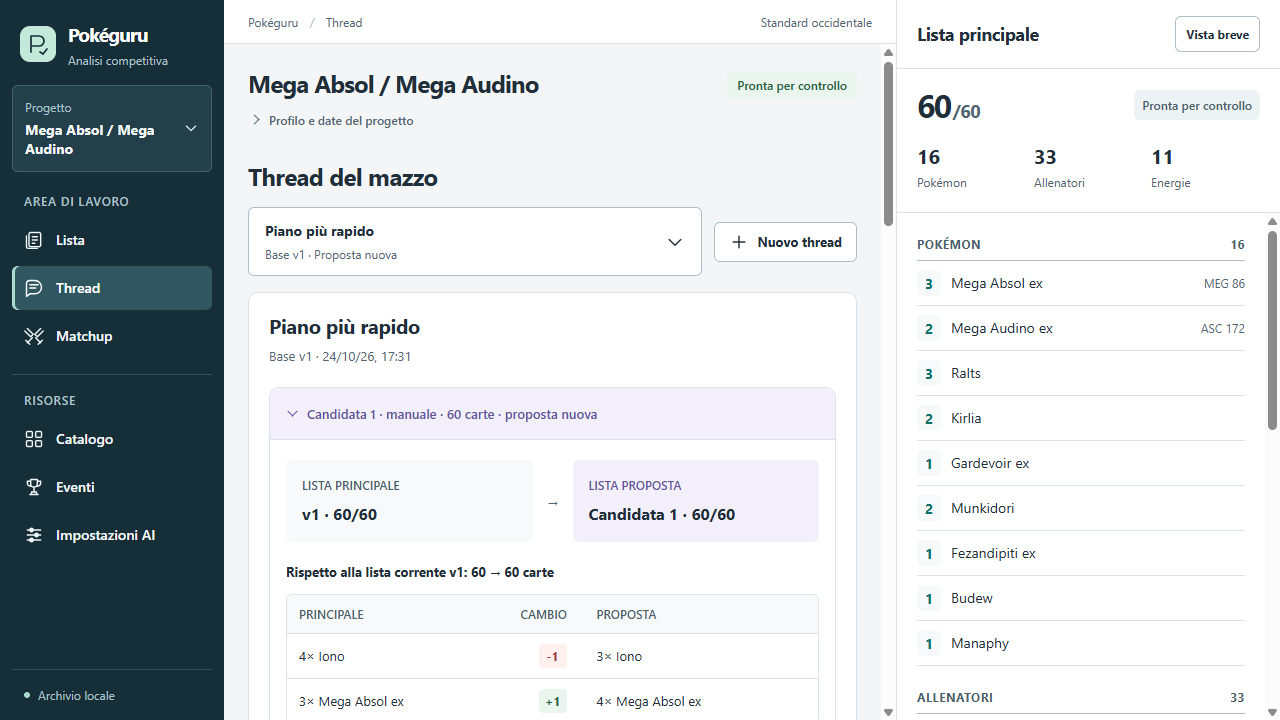
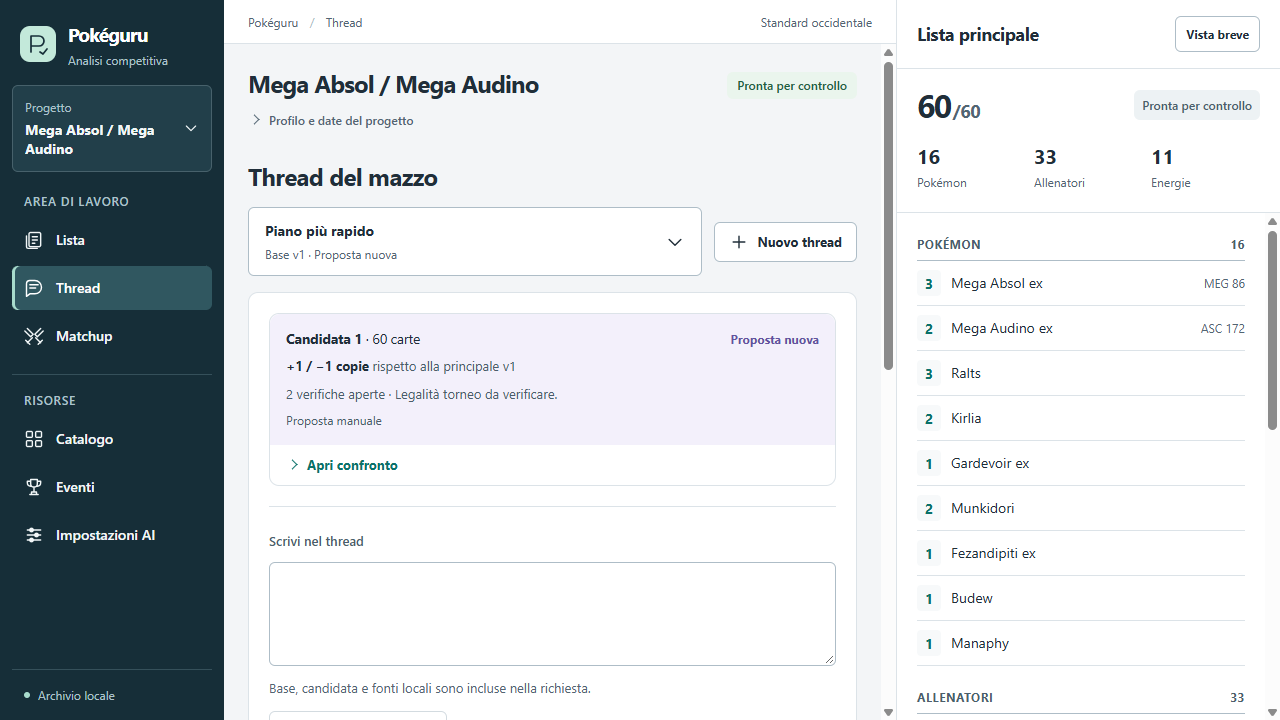
Prioritize thread conversation with compact candidate (APP-068)

diff --git a/src/renderer/src/ThreadsSection.tsx b/src/renderer/src/ThreadsSection.tsx
@@ -81,6 +81,7 @@ function CandidateDetail({ candidate, thread, versions, catalog, constraints, au
   candidate: DeckCandidate; thread: DeckThread; versions: DeckVersion[]; catalog: CatalogView | null
   constraints: DeckConstraint[]; audit: StandardRuleAudit | null; working: boolean; featured?: boolean; onAdopt(candidate: DeckCandidate): void
 }) {
+  const comparison = useRef<HTMLDetailsElement>(null)
   const base = versions.find((version) => version.id === thread.baseVersionId)
   const current = versions[0]
   const adopted = versions.find((version) => version.adoption?.candidateId === candidate.id)
@@ -88,8 +89,21 @@ function CandidateDetail({ candidate, thread, versions, catalog, constraints, au
     new Date().toLocaleDateString('sv-SE'), audit) : null
   const comparisonDeck = review ? parseDeck(review.normalizedRawText) : candidate.parsed
   const reviewItems = review ? reviewSummary(review.toReview) : []
-  return <details className={`thread-candidate ${featured ? 'featured' : ''}`} open={featured || undefined}>
-    <summary>Candidata {candidate.sequence} · {candidate.origin === 'ai' ? 'Codex' : 'manuale'} · {candidate.parsed.interpretedTotal} carte · {adopted ? `adottata in v${adopted.sequence}` : thread.stale ? 'base superata' : 'proposta nuova'}</summary>
+  const diff = current ? compareDecks(current.parsed, comparisonDeck) : null
+  const added = diff?.byName.reduce((sum, item) => sum + Math.max(0, item.delta), 0) ?? 0
+  const removed = diff?.byName.reduce((sum, item) => sum + Math.max(0, -item.delta), 0) ?? 0
+  const blockers = adopted ? [] : [
+    ...(thread.stale ? ['Base superata: apri un nuovo thread dalla lista corrente.'] : []),
+    ...(!current ? ['Manca una lista principale.'] : []),
+    ...(!review ? ['Controlli non disponibili.'] : review.blockers)
+  ]
+  const status = adopted ? `Adottata in v${adopted.sequence}` : thread.stale ? 'Base superata' : 'Proposta nuova'
+  function closeComparison() {
+    if (!comparison.current) return
+    comparison.current.open = false
+    focusInWorkspace(comparison.current.querySelector('summary'))
+  }
+  const content = <>
     <div className="candidate-identities"><div><span>LISTA PRINCIPALE</span><strong>{current ? `v${current.sequence} · ${current.parsed.interpretedTotal}/60` : 'Nessuna lista principale'}</strong></div>
       <b aria-hidden="true">→</b><div><span>LISTA PROPOSTA</span><strong>Candidata {candidate.sequence} · {candidate.parsed.interpretedTotal}/60</strong></div></div>
     {candidate.note && <p>{candidate.note}</p>}
@@ -98,7 +112,7 @@ function CandidateDetail({ candidate, thread, versions, catalog, constraints, au
         ? <button key={source.id} type="button" className="text-button" onClick={() => void window.projectsApi.openDeckSource(source.url!)}>{source.label} ↗</button>
         : <span key={source.id}>{source.label}</span>)}
       {candidate.sources.length > 2 && <span>+{candidate.sources.length - 2} nei dettagli</span>}</div>}
-    {current && <DiffView title={`Rispetto alla lista corrente v${current.sequence}`} diff={compareDecks(current.parsed, comparisonDeck)} />}
+    {current && diff && <DiffView title={`Rispetto alla lista corrente v${current.sequence}`} diff={diff} />}
     {base && base.id !== current?.id && <DiffView title={`Rispetto alla base v${base.sequence}`} diff={compareDecks(base.parsed, comparisonDeck)} beforeLabel="BASE DEL THREAD" />}
     {review && review.conversions.length > 0 && <p className="candidate-conversions">Codici adattati per l'adozione: {review.conversions.map((item) =>
       `riga ${item.lineNumber} ${item.from} → ${item.to}`).join('; ')}.</p>}
@@ -126,7 +140,44 @@ function CandidateDetail({ candidate, thread, versions, catalog, constraints, au
         <pre>{review.normalizedRawText}</pre></div>}
       <pre>{candidate.rawText}</pre>
     </details>
+  </>
+  if (!featured) return <details className="thread-candidate">
+    <summary>Candidata {candidate.sequence} · {candidate.origin === 'ai' ? 'Codex' : 'manuale'} · {candidate.parsed.interpretedTotal} carte · {status}</summary>
+    <div className="candidate-comparison-body">{content}</div>
   </details>
+  return <section className="thread-candidate featured" aria-labelledby={`candidate-title-${candidate.id}`}>
+    <div className="candidate-brief">
+      <div className="candidate-brief-heading">
+        <h3 id={`candidate-title-${candidate.id}`}>Candidata {candidate.sequence} <span>· {candidate.parsed.interpretedTotal} carte</span></h3>
+        <span className="candidate-state">{status}</span>
+      </div>
+      <p className="candidate-change-summary">{diff ? <>
+        {added || removed ? <strong>+{added} / −{removed} copie</strong>
+          : <strong>{diff.byPrint.length ? 'Cambiano solo le stampe' : 'Nessuna variazione'}</strong>}
+        <span> rispetto alla principale v{current!.sequence}</span>
+      </> : 'Nessuna lista principale da confrontare.'}</p>
+      {blockers.length > 0 && <p className="candidate-blocked"><strong>Adozione bloccata.</strong> {blockers[0]}
+        {blockers.length > 1 && <span> Altri {blockers.length - 1} blocchi nel confronto.</span>}</p>}
+      <p className="candidate-caution">{reviewItems.length > 0 && <span>{reviewItems.length} verifiche aperte · </span>}Legalità torneo da verificare.</p>
+      <span className="candidate-origin">{candidate.origin === 'ai'
+        ? `Codex · ${candidate.sources.length ? `${candidate.sources.length} fonti nel confronto` : 'nessuna fonte collegata'}` : 'Proposta manuale'}</span>
+    </div>
+    <details ref={comparison} className="candidate-comparison" onToggle={(event) => {
+      if (event.target !== event.currentTarget || !event.currentTarget.open) return
+      const main = event.currentTarget.closest<HTMLElement>('.main-content')
+      const heading = event.currentTarget.querySelector('summary')?.getBoundingClientRect()
+      if (!main || !heading) return
+      const bounds = main.getBoundingClientRect()
+      if (heading.bottom > bounds.bottom - 200) main.scrollTop += heading.top - bounds.top - 16
+    }} onKeyDown={(event) => {
+      if (event.key === 'Escape') { event.preventDefault(); event.stopPropagation(); closeComparison() }
+    }}>
+      <summary><span className="comparison-closed-label">Apri confronto</span><span className="comparison-open-label">Chiudi confronto</span></summary>
+      <div className="candidate-comparison-body">{content}
+        <button type="button" className="secondary-button close-comparison" onClick={closeComparison}>Chiudi confronto</button>
+      </div>
+    </details>
+  </section>
 }
 
 function displayDate(value: string): string {
@@ -183,12 +234,12 @@ export function ThreadsSection({ projectId, mainImportedAt, onAdopt }: Props) {
     if (createError) focusInWorkspace(newThreadError.current)
   }, [createError])
   useEffect(() => {
-    if (!confirmCandidate && adoptionTrigger.current) {
-      if (adoptionTrigger.current.isConnected) adoptionTrigger.current.focus()
-      else document.querySelector<HTMLElement>('.thread-heading h3')?.focus()
+    if (!confirmCandidate && !loading && !working && adoptionTrigger.current) {
+      if (adoptionTrigger.current.isConnected) focusInWorkspace(adoptionTrigger.current)
+      else focusInWorkspace(document.getElementById('thread-switcher-trigger'))
       adoptionTrigger.current = null
     }
-  }, [confirmCandidate])
+  }, [confirmCandidate, loading, working])
 
   function confirmAdoption(candidate: DeckCandidate) {
     adoptionTrigger.current = document.activeElement as HTMLElement
@@ -410,12 +461,24 @@ export function ThreadsSection({ projectId, mainImportedAt, onAdopt }: Props) {
         </form>}
         <div className="thread-detail">
           {selected ? <>
-            <div className="thread-heading"><div><h3 tabIndex={-1}>{selected.title}</h3><p className="content-note">{selected.baseVersionNumber === null ? 'Senza lista iniziale' : `Base v${selected.baseVersionNumber}`} · {displayDate(selected.createdAt)}</p></div>
-              {selected.stale && <span className="matchup-freshness stale">Base da confrontare</span>}</div>
+            {!featuredCandidate && selected.stale && <p className="diagnostics">Base superata: apri un nuovo thread dalla lista corrente.</p>}
             {featuredCandidate ? <CandidateDetail key={featuredCandidate.id} candidate={featuredCandidate} thread={selected} versions={versions}
               catalog={catalog} constraints={constraints} audit={ruleAudit} working={working} featured onAdopt={confirmAdoption} />
-              : <div className="thread-no-candidate"><strong>Nessuna proposta salvata</strong><p>Chiedi a Codex una lista completa o incollane una.</p></div>}
-            <details className="thread-ai-options"><summary>Modello e ragionamento</summary><div className="thread-form">
+              : <p className="thread-no-candidate">Nessuna proposta salvata.</p>}
+            <div className="thread-timeline"><h4>Conversazione</h4>
+              {timeline.filter((entry) => entry.kind !== 'candidate' || entry.item.id !== featuredCandidate?.id).map((entry) => entry.kind === 'message' ? <div className="thread-message" data-author={entry.item.author} key={entry.item.id}><small>{entry.item.author === 'user' ? 'Tu' : 'Codex'} · {displayDate(entry.item.createdAt)}</small><p>{entry.item.text}</p><ThreadMessageEvidence message={entry.item} />{entry.item.aiConfig && <details><summary>Dettagli AI</summary><p>{entry.item.aiConfig.model ?? 'Automatico'} / {entry.item.aiConfig.reasoningEffort ?? 'predefinito'} · {entry.item.aiConfig.source === 'override' ? 'scelta del thread' : 'preferenze globali'}</p></details>}</div> : <CandidateDetail key={entry.item.id} candidate={entry.item} thread={selected} versions={versions}
+                catalog={catalog} constraints={constraints} audit={ruleAudit} working={working} onAdopt={confirmAdoption} />)}
+            </div>
+            <form className="thread-form" onSubmit={(event) => void ask(event)}>
+              <label htmlFor="thread-message">Scrivi nel thread</label>
+              <textarea id="thread-message" value={message} maxLength={5000} onChange={(event) => { setMessage(event.target.value); setPreview(null) }} />
+              <p className="content-note">Base, candidata e fonti locali sono incluse nella richiesta.</p>
+              <button type="button" className="secondary-button" disabled={!message.trim() || previewLoading || working} onClick={() => void previewEvidence('ask')}>{previewLoading ? 'Preparo i dati…' : 'Vedi dati inviati a Codex'}</button>
+              {preview?.kind === 'ask' && preview.prompt === message && <EvidencePreview packet={preview.packet} />}
+              <div className="thread-form-actions"><button className="primary-button" disabled={working || !message.trim()}>{asking ? 'Codex sta rispondendo…' : 'Chiedi a Codex'}</button>
+              <button type="button" className="secondary-button" disabled={working || !message.trim()} onClick={() => void addMessage()}>Salva osservazione</button></div>
+            </form>
+            <details className="thread-ai-options"><summary>Dettagli del thread e AI</summary><div className="thread-form"><p className="content-note">Creato il {displayDate(selected.createdAt)}</p>
               <label htmlFor="thread-ai-model">Modello Codex per questo thread</label>
               <select id="thread-ai-model" value={selectedOverride?.model ?? ''} disabled={working}
                 onChange={(event) => setOverrides((current) => ({ ...current, [selected.id]: {
@@ -432,19 +495,6 @@ export function ThreadsSection({ projectId, mainImportedAt, onAdopt }: Props) {
                 {selectedModel?.reasoningEfforts.map((effort) => <option key={effort.id} value={effort.id}>{effort.id}</option>)}
               </select>
             </div></details>
-            <div className="thread-timeline"><h4>Discussione e proposte precedenti</h4>
-              {timeline.filter((entry) => entry.kind !== 'candidate' || entry.item.id !== featuredCandidate?.id).map((entry) => entry.kind === 'message' ? <div className="thread-message" data-author={entry.item.author} key={entry.item.id}><small>{entry.item.author === 'user' ? 'Tu' : 'Codex'} · {displayDate(entry.item.createdAt)}</small><p>{entry.item.text}</p><ThreadMessageEvidence message={entry.item} />{entry.item.aiConfig && <details><summary>Dettagli AI</summary><p>{entry.item.aiConfig.model ?? 'Automatico'} / {entry.item.aiConfig.reasoningEffort ?? 'predefinito'} · {entry.item.aiConfig.source === 'override' ? 'scelta del thread' : 'preferenze globali'}</p></details>}</div> : <CandidateDetail key={entry.item.id} candidate={entry.item} thread={selected} versions={versions}
-                catalog={catalog} constraints={constraints} audit={ruleAudit} working={working} onAdopt={confirmAdoption} />)}
-            </div>
-            <form className="thread-form" onSubmit={(event) => void ask(event)}>
-              <label htmlFor="thread-message">Scrivi nel thread</label>
-              <textarea id="thread-message" value={message} maxLength={5000} onChange={(event) => { setMessage(event.target.value); setPreview(null) }} />
-              <p className="content-note">Base, candidata e fonti locali sono incluse nella richiesta.</p>
-              <button type="button" className="secondary-button" disabled={!message.trim() || previewLoading || working} onClick={() => void previewEvidence('ask')}>{previewLoading ? 'Preparo i dati…' : 'Vedi dati inviati a Codex'}</button>
-              {preview?.kind === 'ask' && preview.prompt === message && <EvidencePreview packet={preview.packet} />}
-              <div className="thread-form-actions"><button className="primary-button" disabled={working || !message.trim()}>{asking ? 'Codex sta rispondendo…' : 'Chiedi a Codex'}</button>
-              <button type="button" className="secondary-button" disabled={working || !message.trim()} onClick={() => void addMessage()}>Salva osservazione</button></div>
-            </form>
             <form className="thread-form candidate-form" onSubmit={(event) => void propose(event)}>
               <h4>Proposta completa con Codex</h4>
               <p className="content-note">Descrivi cosa cambiare. Riceverai una lista completa da confrontare.</p>

diff --git a/src/renderer/src/styles.css b/src/renderer/src/styles.css
@@ -95,7 +95,8 @@ details[open] > summary { margin-bottom: 8px; }
 .detail-meta strong { font-size: var(--text-sm); }
 .deck-heading-actions, .deck-export-action { display: flex; align-items: center; flex-wrap: wrap; gap: 8px; }
 .deck-heading-actions > strong { padding-right: 8px; color: var(--ink-muted); font-size: var(--text-sm); font-variant-numeric: tabular-nums; }
-.matchup-empty, .thread-no-candidate { padding: 32px; margin: 20px 0; border: 1px dashed var(--line-strong); border-radius: var(--radius-md); text-align: center; background: var(--surface); color: var(--ink-secondary); }
+.matchup-empty { padding: 32px; margin: 20px 0; border: 1px dashed var(--line-strong); border-radius: var(--radius-md); text-align: center; background: var(--surface); color: var(--ink-secondary); }
+.thread-no-candidate { color: var(--ink-muted); font-size: var(--text-sm); }
 .compact-create-panel { display: grid; gap: 12px; max-width: 600px; margin-bottom: 24px; padding: 24px; background: var(--surface); border: 1px solid var(--line); border-radius: var(--radius-md); }
 .compact-create-panel h2, .compact-create-panel p { margin: 0; }
 .compact-create-panel .primary-button { justify-self: start; }
@@ -289,9 +290,6 @@ details[open] > summary { margin-bottom: 8px; }
 .new-thread-form { margin-bottom: 20px; border: 1px solid var(--line); border-radius: var(--radius-md); background: var(--surface); }
 .thread-detail:empty { display: none; }
 .thread-detail { margin: 0; }
-.thread-heading { display: flex; align-items: flex-start; justify-content: space-between; flex-wrap: wrap; gap: 12px; }
-.thread-heading h3 { margin: 0; }
-.thread-heading p { margin: 8px 0 0; }
 .thread-form { display: grid; gap: 12px; padding: 20px; }
 .thread-form h3, .thread-form h4 { margin: 0; }
 .thread-form .primary-button, .thread-form .secondary-button { justify-self: start; }
@@ -312,8 +310,22 @@ details[open] > summary { margin-bottom: 8px; }
 .thread-candidate { margin: 20px 0; border: 1px solid var(--line); border-radius: var(--radius-md); font-size: var(--text-sm); }
 .thread-candidate > summary { padding: 16px; color: var(--ink); }
 .thread-candidate[open] > summary { border-bottom: 1px solid var(--line); margin: 0; }
-.thread-candidate.featured > summary { background: var(--proposal-soft); color: var(--proposal); border-radius: var(--radius-md) var(--radius-md) 0 0; }
-.thread-candidate > :not(summary) { margin-left: 16px; margin-right: 16px; }
+.thread-candidate.featured { margin-top: 0; }
+.candidate-brief { padding: 16px; background: var(--proposal-soft); border-radius: var(--radius-md) var(--radius-md) 0 0; }
+.candidate-brief-heading { display: flex; align-items: center; justify-content: space-between; flex-wrap: wrap; gap: 8px 12px; }
+.candidate-brief-heading h3 { margin: 0; font-size: var(--text-base); }
+.candidate-brief-heading h3 span { font-weight: 400; }
+.candidate-state { color: var(--proposal); font-size: var(--text-xs); font-weight: 650; }
+.candidate-brief p { margin: 8px 0 0; line-height: 1.5; }
+.candidate-change-summary span, .candidate-caution, .candidate-origin { color: var(--ink-secondary); }
+.candidate-origin { display: block; margin-top: 8px; font-size: var(--text-xs); }
+.candidate-blocked { color: var(--danger); }
+.candidate-comparison > summary { padding: 10px 16px; color: var(--accent); font-weight: 650; }
+.candidate-comparison[open] > summary { border-bottom: 1px solid var(--line); }
+.candidate-comparison .comparison-open-label, .candidate-comparison[open] .comparison-closed-label { display: none; }
+.candidate-comparison[open] .comparison-open-label { display: inline; }
+.candidate-comparison-body { margin: 0 16px; padding-bottom: 16px; }
+.close-comparison { margin-top: 8px; }
 .candidate-identities { display: grid; grid-template-columns: minmax(0, 1fr) 24px minmax(0, 1fr); align-items: center; gap: 8px; margin-top: 20px; }
 .candidate-identities > div { padding: 16px; min-width: 0; border-radius: var(--radius-sm); background: var(--surface-subtle); }
 .candidate-identities > div:last-child { background: var(--proposal-soft); }

diff --git a/docs/BACKLOG.md b/docs/BACKLOG.md
@@ -74,7 +74,8 @@ Dimensioni relative: **S** contenuto, **M** medio, **L** epica da scomporre prim
 | **APP-065** | Vincoli contestuali e riepilogo generale | UI/UX | R-05 / qualità pre-I4 | P1 / S | APP-064; proposta approvata dall'utente | Done |
 | **APP-066** | Importazione su richiesta e annullamento | UI/UX | R-03, R-04 / qualità pre-I4 | P1 / S | APP-065; proposta approvata dall'utente | Done |
 | **APP-067** | Revisione condivisa di selezione e creazione dei Thread | UI/UX | R-03, R-07 / qualità pre-I4 | P1 / S | APP-066; proposta approvata dall'utente | Done |
-| **APP-068** | Revisione condivisa della gerarchia tra conversazione e candidata | UI/UX | R-07, R-08 / qualità pre-I4 | P1 / S | APP-067; proposta da discutere con l'utente | Backlog |
+| **APP-068** | Revisione condivisa della gerarchia tra conversazione e candidata | UI/UX | R-07, R-08 / qualità pre-I4 | P1 / S | APP-067; proposta approvata dall'utente | Done |
+| **APP-069** | Revisione condivisa della scrittura nel Thread | UI/UX | R-07, R-08 / qualità pre-I4 | P1 / S | APP-068; proposta da discutere con l'utente | Backlog |
 
 ## Task dettagliati I0–I2
 
@@ -596,10 +597,20 @@ Dimensioni relative: **S** contenuto, **M** medio, **L** epica da scomporre prim
 - **Verifiche Windows:** build/typecheck e cinque percorsi Electron passati: `thread-switcher-ui-live.mjs`, `threads-live.mjs`, workspace UI, adozione e Thread AI offline. Ricerca senza risultati, 13 thread, titolo lungo, frecce/Tab/Invio/Escape, ritorno del focus, annullamento, errore SQLite indotto nel solo profilo temporaneo e recupero, isolamento fra progetti, candidate separate, base superata e riapertura verificati. Menu/modulo a 1440×900, 1280×720 e 640×720; workspace anche a 1241/1240×720 e 1024×768, senza sovrapposizioni al mazzo. Schermate ispezionate; demo con dati di esempio e contrasto minimo osservato 5,38:1. `git diff --check` pulito.
 - **Limiti:** scenari UI con dati dichiarati e storage temporaneo; nessuna nuova generazione AI. Linux, lettore di schermo e scala OS elevata non verificati. Revisione della conversazione/candidata rinviata al confronto con l'utente; nessun merge o release.
 
-### APP-068 — Gerarchia tra conversazione e candidata, proposta da discutere
+### APP-068 — Gerarchia tra conversazione e candidata
 
 - **Osservazione:** titolo e versione del thread sono ripetuti dopo il selettore; la candidata aperta con confronto e liste complete precede i messaggi e richiede molto scorrimento.
-- **Proposta:** intestazione senza ripetizioni e candidata in un riepilogo con stato, variazioni e “Apri confronto”, lasciando spazio alla conversazione. Blocchi e incertezze essenziali restano leggibili; confronto completo e adozione manuale esplicita restano accessibili. Da discutere prima dell'implementazione.
+- **Autorizzazione e Ready:** proposta approvata dall'utente il 24-10-2026; ambito S e dipendenze risolti, quindi avviata nel ramo locale `task/production-design-system`.
+- **Accettazione:** intestazione senza ripetizioni e candidata in un riepilogo con stato, variazioni e “Apri confronto”, lasciando spazio alla conversazione. Blocchi e incertezze essenziali leggibili anche da chiusa; confronto completo, fonti e adozione manuale esplicita accessibili. Nessuna modifica a validatori, persistenza o AI.
+- **Verifica prevista:** build, percorsi Electron di confronto/adozione, isolamento dei thread e AI offline; riepilogo/confronto a 1440×900, 1280×720 e 640×720, tastiera, focus, contrasto e lista principale persistente.
+- **Risultato:** candidata corrente compatta con totale, stato, copie aggiunte/tolte rispetto alla principale e casi senza differenze o con sole stampe diverse. Primo impedimento e numero degli altri blocchi, verifiche aperte e provenienza restano visibili. “Apri confronto” mostra nella pagina differenze, liste complete, fonti e adozione; Escape o il comando finale richiudono e restituiscono il focus in vista. L'apertura porta i contenuti in vista quando lo spazio sotto il comando è ridotto. Titolo/base duplicati rimossi; data e impostazioni del thread sono nei dettagli sotto la scrittura. Candidate precedenti e messaggi restano in ordine; nessuna modifica a IPC, database o valutazioni.
+- **Verifiche Windows:** build/typecheck e quattro percorsi Electron passati: workspace UI, adozione, thread persistenti e AI offline. Riepilogo e confronto a 1440×900, 1280×720 e 640×720; workspace anche a 1241/1240×720 e 1024×768. Contrasto, tastiera, focus dopo chiusura/adozione, bozza conservata, scroll indipendente e lista persistente verificati. Il primo messaggio di esempio compare nella prima schermata desktop; quantità, sole stampe, nessuna variazione, nuova candidata, base superata, adozione esplicita, archivio delle candidate e riapertura controllati. Schermate demo/fixture ispezionate, contrasto minimo della demo 5,54:1. `git diff --check` pulito.
+- **Limiti:** dati UI di esempio e archivio temporaneo per i test; nessuna nuova generazione AI. Linux, lettore di schermo e scala OS elevata non verificati. Il percorso AI live è adattato al confronto apribile ma non rieseguito. Nessun merge o release.
+
+### APP-069 — Scrittura nel Thread, proposta da discutere
+
+- **Osservazione:** scrittura del messaggio e richiesta di una lista completa usano due grandi campi separati, con istruzioni e anteprima dati ripetute.
+- **Proposta:** un campo di scrittura con scelta esplicita tra “Discuti” e “Proponi una lista”; mantenere salvataggio dell'osservazione e importazione manuale della candidata come azioni distinte. Preservare errori, bozza, anteprima dei dati e semantica delle API. Da discutere con l'utente prima di applicare.
 
 ## Regola per i blocchi
 

diff --git a/docs/DESIGN_SYSTEM.md b/docs/DESIGN_SYSTEM.md
@@ -69,7 +69,7 @@ I token risiedono in `src/renderer/src/tokens.css`; `styles.css` descrive i comp
 
 ## Verifica
 
-**Thread (APP-067):** selettore con titolo, base e stato sintetico accanto a “Nuovo thread”. Ricerca e opzioni riprendono i componenti del selettore progetti; il menu resta entro l'area di lavoro, con scorrimento proprio e titoli lunghi a capo. La creazione usa un modulo nel flusso, con annullamento/Escape, focus restituito ed errori conservativi portati in vista. La candidata e la conversazione mantengono per ora la gerarchia precedente.
+**Thread (APP-067/068):** selettore con titolo, base e stato sintetico accanto a “Nuovo thread”. Ricerca e opzioni riprendono i componenti del selettore progetti; il menu resta entro l'area di lavoro, con scorrimento proprio e titoli lunghi a capo. La creazione usa un modulo nel flusso, con annullamento/Escape, focus restituito ed errori conservativi portati in vista. La candidata corrente mostra un riepilogo con stato, copie cambiate, blocchi/incertezze e origine; il confronto completo si apre nella pagina e si richiude anche con Escape. Le candidate precedenti restano nella cronologia. Titolo/base duplicati sono rimossi, data e configurazione AI sono sotto la conversazione.
 
 La verifica usa Electron reale su Windows, con archivi separati. I dati di Catalogo/Eventi e la guida del test sono **fixture UI**, non nuove acquisizioni o generazioni AI. Il test Matchup può ricevere il metagame attraverso il connettore già esistente; la guida resta una fixture dichiarata.
 
@@ -94,7 +94,7 @@ Schermate registrate: [Lista 1440](design-review/lista-1440.png), [Lista 1280](d
 **Selezione Thread (APP-067):** aprire “Piano più rapido”, cercare un titolo e scegliere con frecce/Invio; provare Escape e Tab. “Nuovo thread” apre il modulo; Annulla evita il salvataggio. [Menu 1440](design-review/thread-selettore-1440.png), [1280](design-review/thread-selettore-1280.png), [640](design-review/thread-selettore-640.png) e [creazione 1280](design-review/thread-creazione-1280.png) usano una fixture UI con 13 thread per verificare scorrimento e nomi lunghi. Le schermate Thread 1440/640 e [1280](design-review/thread-1280.png) sono aggiornate sulla demo esistente. `node tests/thread-switcher-ui-live.mjs` verifica anche errore SQLite, recupero e isolamento in archivio temporaneo.
 
 1. **Lista:** controllare conteggi e miniature, usare il riepilogo per raggiungere Allenatori o Energie, aprire una carta, verificare lo stato Standard e provare “Importa / sostituisci”. Le schermate Lista APP-062 usano il campione reale TCGdex nel profilo demo; non tutte le carte della lista hanno una miniatura disponibile.
-2. **Thread → Piano più rapido:** confrontare principale e proposta; scorrere le due liste e il pannello persistente in modo indipendente; aprire e annullare l'adozione.
+2. **Thread → Piano più rapido:** leggere il riepilogo e usare “Apri confronto”; scorrere le due liste e il pannello persistente in modo indipendente; aprire e annullare l'adozione. Chiudere con Escape o il comando finale e verificare il ritorno del focus. [Conversazione 1440](design-review/thread-conversazione-1440.png), [confronto 1440](design-review/thread-confronto-1440.png), [1280](design-review/thread-confronto-1280.png), [640](design-review/thread-confronto-640.png), [base superata](design-review/thread-base-superata.png) provengono da fixture dichiarate. Le schermate generali Thread sono aggiornate sulla demo; contrasto minimo osservato 5,54:1.
 3. **Matchup → cercare “fixture UI”:** leggere la guida, aprire una revisione precedente e le opzioni AI; tenere la lista principale a vista.
 4. **Catalogo / Eventi / AI:** confrontare filtri, pulsanti, dettagli apribili e messaggi di stato.
 5. Ridimensionare tra 1440 e 1280 px, poi sotto 1240 px; provare Tab, Shift+Tab, Enter, Escape e PageDown nella lista.

diff --git a/docs/DECISIONS.md b/docs/DECISIONS.md
@@ -107,6 +107,12 @@ L'utente approva il selettore unico con titolo e stato accanto a “Nuovo thread
 
 La creazione avviene in un modulo nel contenuto, annullabile senza scritture; il selettore è disabilitato mentre il modulo è aperto. Un errore mantiene i valori e viene portato in vista muovendo solo l'area centrale. Il successo seleziona il nuovo thread e chiude il modulo. Il renderer usa le API esistenti; persistenza, sessioni AI, confronto e adozione non cambiano. La gerarchia tra conversazione e candidata sarà discussa separatamente in APP-068.
 
+### T-57 — Candidata compatta e confronto su richiesta (APP-068)
+
+L'utente approva il riepilogo della candidata con “Apri confronto” e la rimozione del titolo del thread ripetuto. Le variazioni sintetiche usano lo stesso confronto per nome e lo stesso testo normalizzato già mostrati nel dettaglio; copie aggiunte e tolte sono distinte. Nessuna variazione e sole differenze di stampa hanno etichette dedicate. Lo stato descrive proposta nuova, base superata o versione di adozione; il primo impedimento e il conteggio degli altri restano visibili, insieme alle verifiche aperte e all'origine. Lo stato della proposta non certifica la legalità.
+
+Il confronto resta nel flusso della pagina, con liste, fonti e controlli esistenti. L'apertura porta i contenuti in vista quando necessario, muovendo solo l'area centrale; chiusura ed Escape restituiscono il focus al comando. Dopo adozione il focus torna al selettore quando il caricamento è concluso. L'adozione resta esplicita e richiede la conferma dell'intera lista. Le candidate precedenti restano apribili nella cronologia; data di creazione e configurazione AI passano sotto la scrittura. Nessuna modifica a validatori, persistenza o integrazioni.
+
 ## Registro delle fonti primarie
 
 | ID | Fonte consultata il 23-10-2026 | Conclusione utilizzabile | Limite e verifica futura |

diff --git a/docs/PLAN.md b/docs/PLAN.md
@@ -96,6 +96,8 @@ Al termine di ciascun incremento, mostrare il percorso utente, registrare eviden
 
 ## Ripresa
 
+- **APP-068 completato:** candidata compatta, confronto apribile nella pagina e intestazione senza duplicazioni; data e AI sotto la conversazione. Build e quattro percorsi Electron passati; riepilogo/confronto, blocchi/incertezze, adozione, focus e responsive verificati su Windows. Risultati e limiti nel backlog. Prossimo punto proposto: APP-069, unificazione dei campi di scrittura del Thread, da discutere prima di applicare. Ramo locale `task/production-design-system`; nessun I4, merge o release.
+
 - **APP-067 completato:** selettore Thread con titolo/stato e ricerca, modulo di creazione nel contenuto, annullamento e focus/errori contestuali. Build e cinque percorsi Electron passati; menu, tastiera, persistenza/isolamento e responsive verificati su Windows. Risultati e limiti nel backlog. Prossimo punto proposto: APP-068, gerarchia tra conversazione e candidata, da discutere prima di applicare. Ramo locale `task/production-design-system`; I4, merge e release esclusi.
 
 - **APP-066 completato:** importazione su richiesta sopra la lista, Annulla/Escape, errori contestuali e modulo immediato nei progetti vuoti. Build e sei percorsi Electron passati: importazione, workspace, export, riconciliazione, smoke offline e adozione. Rollback, file tardivi, isolamento e responsive verificati su Windows; risultati e limiti nel backlog. Prossimo punto proposto per la revisione condivisa: APP-067, selezione e creazione dei Thread, da discutere prima di applicare. Ramo locale `task/production-design-system`; I4, merge e release esclusi.

diff --git a/README.md b/README.md
@@ -44,6 +44,8 @@ APP-066 mostra l'importazione su richiesta da **Importa / sostituisci**, sopra l
 
 APP-067 riunisce i **Thread** in un selettore con ricerca, titolo e stato, accanto a **Nuovo thread**. La creazione apre un modulo nel contenuto, annullabile con il pulsante o Escape. La lista principale resta consultabile anche quando il selettore è aperto.
 
+APP-068 mostra la candidata corrente in un **riepilogo compatto**, con stato, copie cambiate e controlli essenziali. **Apri confronto** espande liste, differenze, fonti e adozione manuale; Escape o **Chiudi confronto** riportano al riepilogo. Il titolo del thread compare nel solo selettore e la conversazione precede i dettagli AI.
+
 Il ramo `task/production-design-system` rifinisce tutte le viste dell'app con token condivisi, tipografia sans, icone SVG, controlli leggibili e stati coerenti. La sidebar desktop è larga **224 px**; la lista principale rimane fissa a **384 px**, con dock di 220 px sotto la soglia di 1240 px. Il primo progetto si crea nell'area centrale. Metadati e metodo precedono meno spesso carte, differenze e strategia; focus e scorrimento sono verificati anche da tastiera.
 
 L'[audit e le regole del design system](docs/DESIGN_SYSTEM.md) descrivono le scelte e i percorsi di prova. `node tests/workspace-ui-live.mjs --keep-profile`, dopo la build, conserva e stampa un profilo dimostrativo isolato. La guida e le liste di prova sono esempi UI, non nuove generazioni Codex. La rifinitura non è ancora integrata in `dev` né nella release v0.1.0.
